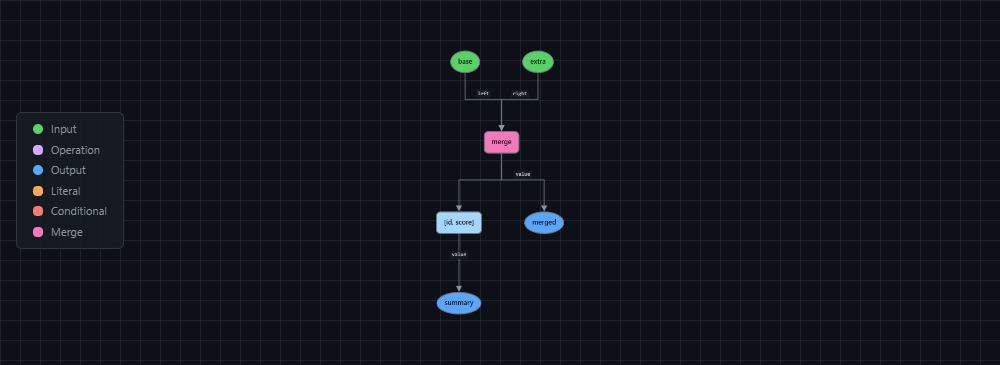
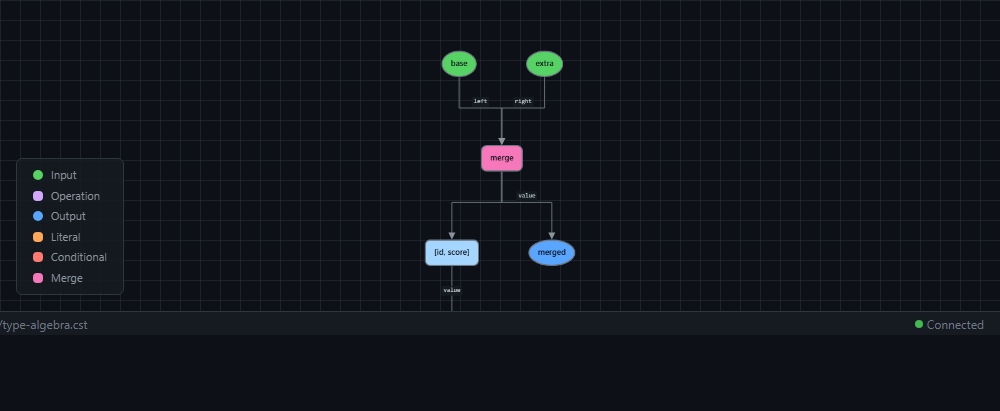
feat(dashboard): side-by-side editor + DAG layout with draggable resizer
Replace the vertical stack layout with a horizontal split where the
code editor sits on the left and DAG visualization on the right.
A draggable handle between them allows resizing (15%-85% range).

- Wrap editor body and DAG in a flex-row `.editor-dag-split` container
- Move editor header + DAG controls into a unified always-visible toolbar
- Add `.split-handle` with col-resize drag logic (mousedown/move/up)
- Editor collapses to width:0 when hidden, DAG takes full width
- Call cy.resize() before cy.fit() to invalidate cached container size
- Refit DAG via requestAnimationFrame on editor toggle for smooth reflow

diff --git a/modules/http-api/src/main/resources/dashboard/index.html b/modules/http-api/src/main/resources/dashboard/index.html
@@ -85,47 +85,52 @@
                         </div>
                     </div>
 
-                    <!-- Code Editor -->
-                    <div class="editor-container collapsed" id="editor-container">
-                        <div class="editor-header">
-                            <div class="editor-title">
-                                <h3>Code Editor</h3>
-                                <button id="new-script-btn" class="icon-btn" title="New Script">+</button>
-                            </div>
-                            <div class="editor-controls">
-                                <span id="editor-status" class="editor-status"></span>
-                                <button id="editor-toggle-btn" class="layout-btn">Edit</button>
-                            </div>
+                    <!-- Editor Header (always visible) -->
+                    <div class="editor-header" id="editor-header">
+                        <div class="editor-title">
+                            <h3>Code Editor</h3>
+                            <button id="new-script-btn" class="icon-btn" title="New Script">+</button>
                         </div>
-                        <div class="editor-body">
-                            <textarea id="code-editor-textarea" class="code-textarea"
-                                      spellcheck="false" autocomplete="off"
-                                      placeholder="Write constellation-lang code here..."></textarea>
-                            <div id="editor-error-banner" class="editor-error-banner"></div>
+                        <div class="editor-controls">
+                            <span id="editor-status" class="editor-status"></span>
+                            <button id="editor-toggle-btn" class="layout-btn">Edit</button>
+                            <span class="separator"></span>
+                            <h3 class="dag-label">DAG Visualization</h3>
+                            <button id="layout-tb" class="layout-btn active" title="Top to Bottom">TB</button>
+                            <button id="layout-lr" class="layout-btn" title="Left to Right">LR</button>
+                            <span class="separator"></span>
+                            <button id="zoom-in" class="icon-btn" title="Zoom In">+</button>
+                            <button id="zoom-out" class="icon-btn" title="Zoom Out">-</button>
+                            <button id="zoom-fit" class="icon-btn" title="Fit to View">Fit</button>
                         </div>
                     </div>
 
-                    <!-- DAG Visualization -->
-                    <div class="dag-container">
-                        <div class="dag-header">
-                            <h3>DAG Visualization</h3>
-                            <div class="dag-controls">
-                                <button id="layout-tb" class="layout-btn active" title="Top to Bottom">TB</button>
-                                <button id="layout-lr" class="layout-btn" title="Left to Right">LR</button>
-                                <span class="separator"></span>
-                                <button id="zoom-in" class="icon-btn" title="Zoom In">+</button>
-                                <button id="zoom-out" class="icon-btn" title="Zoom Out">-</button>
-                                <button id="zoom-fit" class="icon-btn" title="Fit to View">Fit</button>
+                    <!-- Editor + DAG Split -->
+                    <div class="editor-dag-split editor-collapsed" id="editor-dag-split">
+                        <!-- Code Editor (left) -->
+                        <div class="editor-container collapsed" id="editor-container">
+                            <div class="editor-body">
+                                <textarea id="code-editor-textarea" class="code-textarea"
+                                          spellcheck="false" autocomplete="off"
+                                          placeholder="Write constellation-lang code here..."></textarea>
+                                <div id="editor-error-banner" class="editor-error-banner"></div>
                             </div>
                         </div>
-                        <div id="dag-canvas" class="dag-canvas"></div>
-                        <div id="dag-legend" class="dag-legend">
-                            <div class="legend-item"><span class="legend-dot" style="background:#56d364;border-radius:50%"></span> Input</div>
-                            <div class="legend-item"><span class="legend-dot" style="background:#d2a8ff"></span> Operation</div>
-                            <div class="legend-item"><span class="legend-dot" style="background:#58a6ff;border-radius:50%"></span> Output</div>
-                            <div class="legend-item"><span class="legend-dot" style="background:#ffa657"></span> Literal</div>
-                            <div class="legend-item"><span class="legend-dot" style="background:#ff7b72"></span> Conditional</div>
-                            <div class="legend-item"><span class="legend-dot" style="background:#f778ba"></span> Merge</div>
+
+                        <!-- Drag Handle -->
+                        <div class="split-handle" id="split-handle"></div>
+
+                        <!-- DAG Visualization (right) -->
+                        <div class="dag-container" id="dag-container">
+                            <div id="dag-canvas" class="dag-canvas"></div>
+                            <div id="dag-legend" class="dag-legend">
+                                <div class="legend-item"><span class="legend-dot" style="background:#56d364;border-radius:50%"></span> Input</div>
+                                <div class="legend-item"><span class="legend-dot" style="background:#d2a8ff"></span> Operation</div>
+                                <div class="legend-item"><span class="legend-dot" style="background:#58a6ff;border-radius:50%"></span> Output</div>
+                                <div class="legend-item"><span class="legend-dot" style="background:#ffa657"></span> Literal</div>
+                                <div class="legend-item"><span class="legend-dot" style="background:#ff7b72"></span> Conditional</div>
+                                <div class="legend-item"><span class="legend-dot" style="background:#f778ba"></span> Merge</div>
+                            </div>
                         </div>
                     </div>
                 </section>

diff --git a/dashboard/src/main.ts b/dashboard/src/main.ts
@@ -48,7 +48,9 @@ class ConstellationDashboard {
             layoutLR: document.getElementById('layout-lr')!,
             zoomIn: document.getElementById('zoom-in')!,
             zoomOut: document.getElementById('zoom-out')!,
-            zoomFit: document.getElementById('zoom-fit')!
+            zoomFit: document.getElementById('zoom-fit')!,
+            editorDagSplit: document.getElementById('editor-dag-split')!,
+            splitHandle: document.getElementById('split-handle')!
         };
     }
 
@@ -64,6 +66,7 @@ class ConstellationDashboard {
             this.initDagVisualizer();
             this.initExecutionPanel();
             this.initCodeEditor();
+            this.initSplitHandle();
 
             // Set up event listeners
             this.setupEventListeners();
@@ -134,6 +137,53 @@ class ConstellationDashboard {
             }
         });
         this.codeEditor.init();
+    }
+
+    /**
+     * Initialize the draggable split handle between editor and DAG
+     */
+    private initSplitHandle(): void {
+        const splitHandle = document.getElementById('split-handle')!;
+        const splitContainer = document.getElementById('editor-dag-split')!;
+        const editorContainer = document.getElementById('editor-container')!;
+
+        let isDragging = false;
+
+        splitHandle.addEventListener('mousedown', (e: MouseEvent) => {
+            isDragging = true;
+            e.preventDefault();
+            document.body.style.cursor = 'col-resize';
+            document.body.style.userSelect = 'none';
+        });
+
+        document.addEventListener('mousemove', (e: MouseEvent) => {
+            if (!isDragging) return;
+            const rect = splitContainer.getBoundingClientRect();
+            const offset = e.clientX - rect.left;
+            const pct = (offset / rect.width) * 100;
+            const clamped = Math.max(15, Math.min(85, pct));
+            editorContainer.style.width = clamped + '%';
+        });
+
+        document.addEventListener('mouseup', () => {
+            if (!isDragging) return;
+            isDragging = false;
+            document.body.style.cursor = '';
+            document.body.style.userSelect = '';
+            // Notify Cytoscape to recalculate after resize
+            this.dagVisualizer?.fit();
+        });
+
+        // Refit DAG when editor is toggled (container size changes)
+        const toggleBtn = document.getElementById('editor-toggle-btn');
+        toggleBtn?.addEventListener('click', () => {
+            // Wait for layout reflow before refitting
+            requestAnimationFrame(() => {
+                requestAnimationFrame(() => {
+                    this.dagVisualizer?.fit();
+                });
+            });
+        });
     }
 
     /**

diff --git a/modules/http-api/src/main/resources/dashboard/static/css/main.css b/modules/http-api/src/main/resources/dashboard/static/css/main.css
@@ -404,12 +404,46 @@ html, body {
 }
 
 /* ============================================
+   Editor + DAG Split Layout
+   ============================================ */
+.editor-dag-split {
+    display: flex;
+    flex-direction: row;
+    flex: 1;
+    overflow: hidden;
+}
+
+.split-handle {
+    width: 5px;
+    cursor: col-resize;
+    background-color: var(--border-primary);
+    transition: background-color var(--transition-fast);
+    flex-shrink: 0;
+}
+
+.split-handle:hover {
+    background-color: var(--accent-primary);
+}
+
+.editor-dag-split.editor-collapsed .split-handle {
+    display: none;
+}
+
+/* ============================================
    Code Editor
    ============================================ */
 .editor-container {
     display: flex;
     flex-direction: column;
-    border-top: 1px solid var(--border-primary);
+    width: 50%;
+    border-right: 1px solid var(--border-primary);
+    overflow: hidden;
+}
+
+.editor-container.collapsed {
+    width: 0;
+    border-right: none;
+    overflow: hidden;
 }
 
 .editor-header {
@@ -418,8 +452,19 @@ html, body {
     justify-content: space-between;
     padding: var(--spacing-xs) var(--spacing-md);
     background-color: var(--bg-secondary);
+    border-top: 1px solid var(--border-primary);
     border-bottom: 1px solid var(--border-primary);
     min-height: 36px;
+    flex-shrink: 0;
+}
+
+.editor-header .dag-label {
+    font-size: 12px;
+    font-weight: 600;
+    text-transform: uppercase;
+    letter-spacing: 0.5px;
+    color: var(--text-secondary);
+    margin-left: auto;
 }
 
 .editor-title {
@@ -442,6 +487,13 @@ html, body {
     gap: var(--spacing-sm);
 }
 
+.editor-controls .separator {
+    width: 1px;
+    height: 20px;
+    background-color: var(--border-primary);
+    margin: 0 var(--spacing-xs);
+}
+
 .editor-status {
     font-size: 11px;
     color: var(--text-muted);
@@ -458,10 +510,7 @@ html, body {
 }
 
 .editor-body {
-    height: 240px;
-    min-height: 120px;
-    max-height: 400px;
-    resize: vertical;
+    flex: 1;
     overflow: hidden;
     position: relative;
 }
@@ -515,8 +564,7 @@ html, body {
     flex: 1;
     display: flex;
     flex-direction: column;
-    border-top: 1px solid var(--border-primary);
-    min-height: 300px;
+    min-width: 0;
     position: relative;
 }
 

diff --git a/dashboard/src/components/code-editor.ts b/dashboard/src/components/code-editor.ts
@@ -102,6 +102,8 @@ class CodeEditor {
         this.container.classList.remove('collapsed');
         this.container.classList.add('expanded');
         if (this.toggleBtn) this.toggleBtn.textContent = 'Hide';
+        const split = document.getElementById('editor-dag-split');
+        if (split) split.classList.remove('editor-collapsed');
     }
 
     /**
@@ -113,6 +115,8 @@ class CodeEditor {
         this.container.classList.remove('expanded');
         this.container.classList.add('collapsed');
         if (this.toggleBtn) this.toggleBtn.textContent = 'Edit';
+        const split = document.getElementById('editor-dag-split');
+        if (split) split.classList.add('editor-collapsed');
     }
 
     /**

diff --git a/dashboard/src/types.d.ts b/dashboard/src/types.d.ts
@@ -232,6 +232,8 @@ interface DashboardElements {
     zoomIn: HTMLElement;
     zoomOut: HTMLElement;
     zoomFit: HTMLElement;
+    editorDagSplit: HTMLElement;
+    splitHandle: HTMLElement;
 }
 
 // =============================================================================
@@ -290,6 +292,7 @@ interface CytoscapeInstance {
     zoom(): number;
     zoom(level: number): void;
     fit(eles?: unknown, padding?: number): void;
+    resize(): void;
     layout(options: CytoscapeLayoutOptions): CytoscapeLayout;
     container(): HTMLElement;
     getElementById(id: string): CytoscapeCollection & CytoscapeNode;

diff --git a/dashboard/src/components/dag-visualizer.ts b/dashboard/src/components/dag-visualizer.ts
@@ -418,6 +418,7 @@ class DagVisualizer {
      */
     fit(): void {
         if (this.cy) {
+            this.cy.resize();
             this.cy.fit(undefined, 30);
         }
     }
